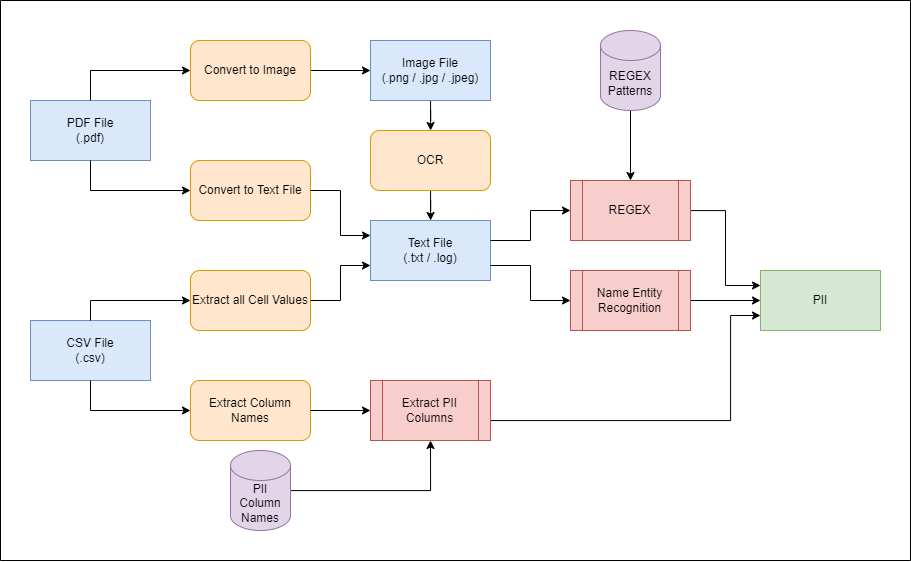
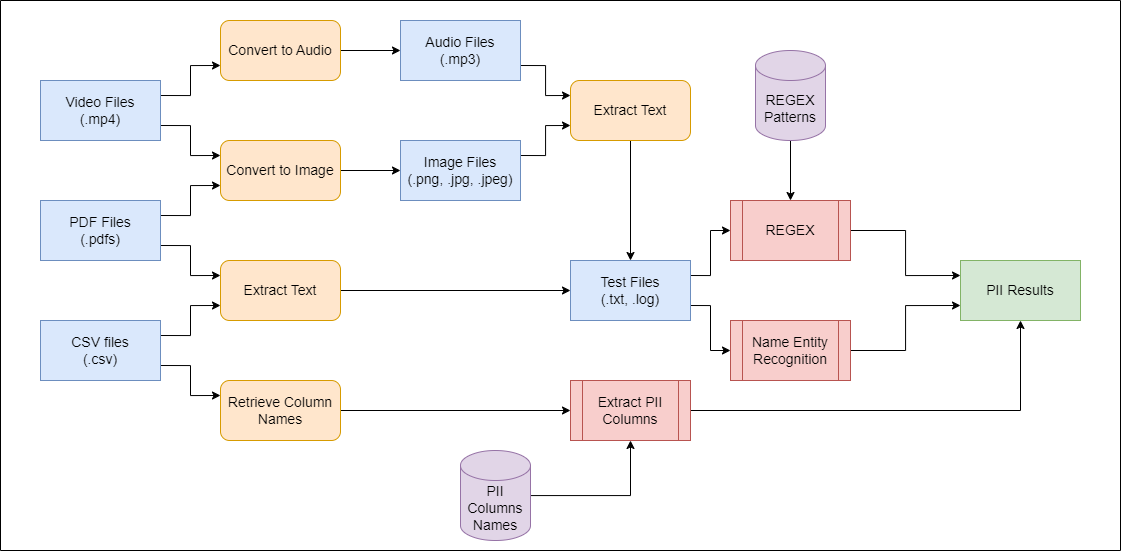
Add updated flowchart

Changed region(s): [[0.0307, 0.0309, 0.9835, 0.7096], [0.0, 0.6479, 1.0, 1.0], [0.0307, 0.4628, 0.3688, 0.7096]]

diff --git a/README.md b/README.md
@@ -16,7 +16,7 @@
 
 ## About The Project
 
-Data Watchdog is a tool built to find and classify Personally Identifiable Information (PII) like names, emails, Aadhaar numbers, and PAN numbers in different types of data storage. It works with databases like MySQL and cloud services like Google Cloud and Amazon S3. The tool supports various file types, including unstructured files (such as `.txt`, `.log`, `.jpg`, `.pdf`, `.mp3`, `.mp4`) and structured files (such as `.csv`). 
+Data Watchdog is a tool built to find and classify Personally Identifiable Information (PII) like names, emails, Aadhaar numbers, and PAN numbers in different types of data storage. It works with databases like MySQL and cloud services like Google Cloud and Amazon S3. The tool supports various file types, including unstructured files (such as `.txt`, `.log`, `.jpg`, `.png`, `.jpeg`, `.pdf`, `.mp3`, `.mp4`) and structured files (such as `.csv`). 
 
 **Objective**: Storing personal data comes with risks, and businesses need to follow rules to protect it. Data Watchdog helps companies find and classify personal data in their systems, making sure they follow data privacy laws like GDPR and CCPA, and reduce the risk of data breaches.
 
@@ -36,7 +36,7 @@ https://github.com/user-attachments/assets/597ad48b-8e24-47e1-8d08-26b8420f3aae
 
 ## Methodology
 
-We primarily deal with 5 types of files, which are Text Files (`.txt`, `.log`), Image Files (`.png`, `.jpg`, `.jpeg`), PDF Files (`.pdf`), CSV Files (`.csv`) and Multimedia Files (`.mp3` and `.mp4`). Details about each PII extraction process can be found <a href="model/README.md">here</a>
+We primarily deal with 6 types of files, which are Text Files (`.txt`, `.log`), Image Files (`.png`, `.jpg`, `.jpeg`), PDF Files (`.pdf`), CSV Files (`.csv`), Audio Files (`.mp3`) and Video Files(`.mp4`). Details about each PII extraction process can be found <a href="model/README.md">here</a>
 
 ### High Level Design
 
